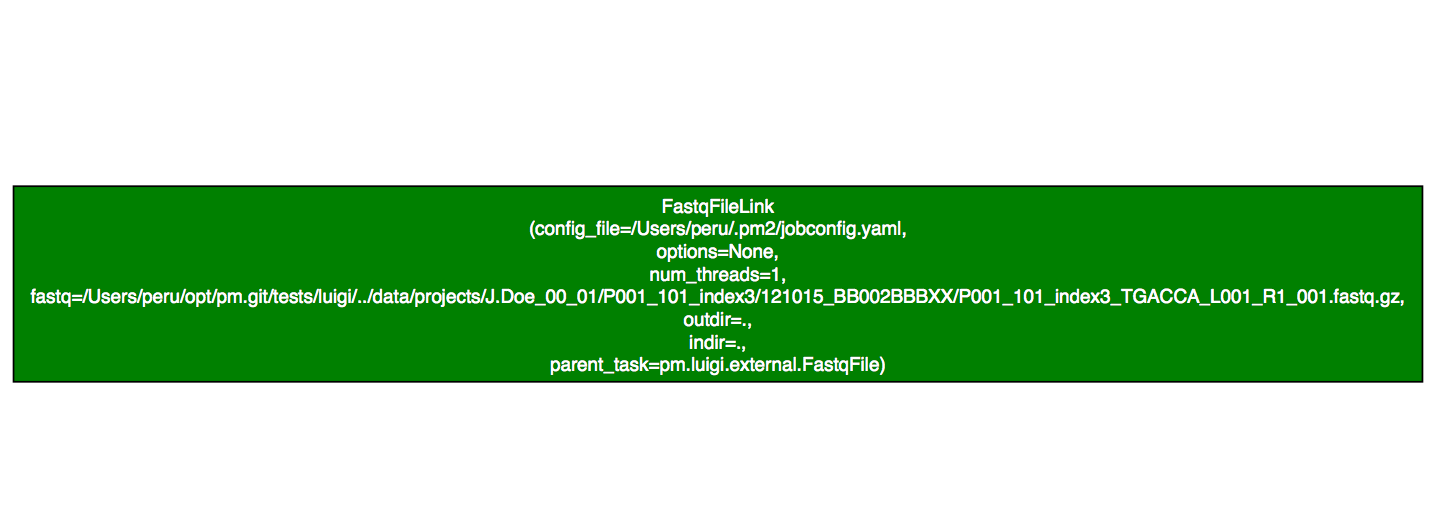
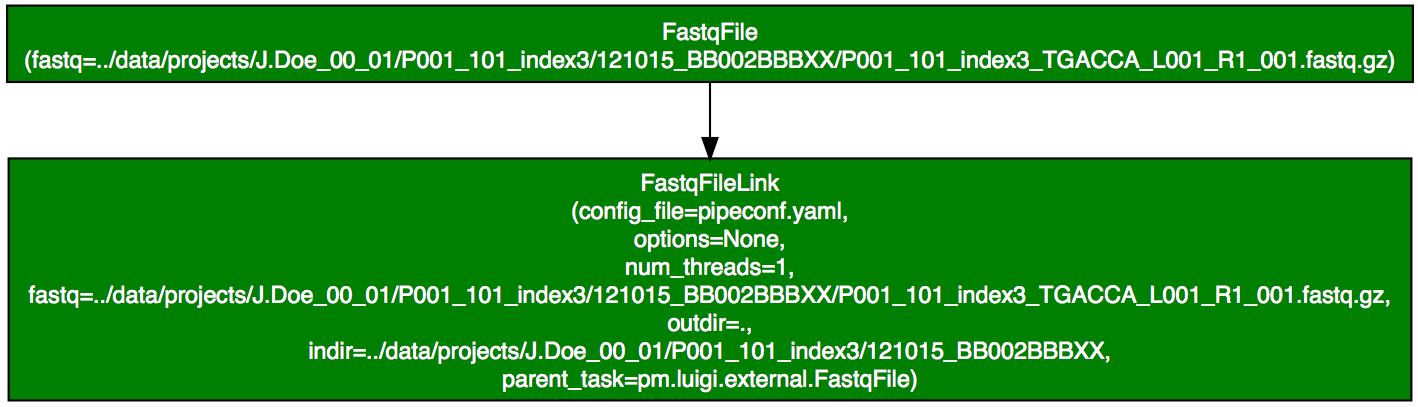
Update tests and config to use relative paths

diff --git a/tests/luigi/test_wrapper.py b/tests/luigi/test_wrapper.py
@@ -26,10 +26,10 @@ bwa = "bwa"
 samtools = "samtools"
 
 if has_ngstestdata:
-    bwaref = os.path.join(ntd.__path__[0], os.pardir, "data", "genomes", "Hsapiens", "hg19", "bwa", "chr11.fa")
-    bwaseqref = os.path.join(ntd.__path__[0], os.pardir, "data", "genomes", "Hsapiens", "hg19", "seq", "chr11.fa")
-    indir = os.path.join(os.path.dirname(__file__), os.pardir, "data", "projects", "J.Doe_00_01", "P001_101_index3", "121015_BB002BBBXX")
-    projectdir = os.path.join(os.path.dirname(__file__), os.pardir, "data", "projects", "J.Doe_00_01")
+    bwaref = os.path.relpath(os.path.join(ntd.__path__[0], os.pardir, "data", "genomes", "Hsapiens", "hg19", "bwa", "chr11.fa"))
+    bwaseqref = os.path.relpath(os.path.join(ntd.__path__[0], os.pardir, "data", "genomes", "Hsapiens", "hg19", "seq", "chr11.fa"))
+    indir = os.path.relpath(os.path.join(os.path.dirname(__file__), os.pardir, "data", "projects", "J.Doe_00_01", "P001_101_index3", "121015_BB002BBBXX"))
+    projectdir = os.path.relpath(os.path.join(os.path.dirname(__file__), os.pardir, "data", "projects", "J.Doe_00_01"))
     sample = "P001_101_index3_TGACCA_L001"
     fastq1 = os.path.join(indir, sample + "_R1_001.fastq.gz")
     fastq2 = os.path.join(indir, sample + "_R2_001.fastq.gz")
@@ -66,7 +66,6 @@ class TestLuigiWrappers(unittest.TestCase):
         except:
             pass
 
-    # NB: fastq1 has to be absolute path, otherwise no link is created
     def test_fastqln(self):
         luigi.run(_luigi_args(['--fastq', fastq1, '--config-file', localconf]), main_task_cls=FASTQ.FastqFileLink)
 

diff --git a/pm/luigi/fastq.py b/pm/luigi/fastq.py
@@ -22,13 +22,14 @@ class FastqFileLink(JobTask):
 
     def requires(self):
         cls = self.set_parent_task()
-        return cls(fastq=os.path.abspath(self.fastq))
+        return cls(fastq=os.path.relpath(self.fastq))
 
     def output(self):
-        return luigi.LocalTarget(os.path.join(os.path.abspath(self.outdir), os.path.basename(self.fastq)))
+        return luigi.LocalTarget(os.path.join(os.path.relpath(self.outdir), os.path.basename(self.fastq)))
 
     def run(self):
-        if not os.path.exists(self.outdir):
-            os.makedirs(self.outdir)
+        # TODO: need to separate handling of paths
+        if not os.path.exists(os.path.relpath(self.outdir)):
+            os.makedirs(os.path.relpath(self.outdir))
         os.symlink(self.input().fn, self.output().fn)
         

diff --git a/pm/luigi/server.py b/pm/luigi/server.py
@@ -33,7 +33,7 @@ from luigi.scheduler import PENDING, DONE, FAILED, RUNNING
 
 class RPCHandler(tornado.web.RequestHandler):
     """ Handle remote scheduling calls using rpc.RemoteSchedulerResponder"""
-    scheduler = scheduler.CentralPlannerScheduler()
+    scheduler = scheduler.CentralPlannerScheduler(remove_delay=30.0)
     api = RemoteSchedulerResponder(scheduler)
 
     def get(self, method):

diff --git a/pm/luigi/README.md b/pm/luigi/README.md
@@ -144,3 +144,5 @@ expect many changes in near future.
      [shell.exec_cmd](https://github.com/cement/cement/blob/master/cement/utils/shell.py#L8)
      from the cement package
 
+* Fix path handling so relative paths can be used (see e.g. run method in
+  [fastq](https://github.com/percyfal/pm/blob/feature/luigi-tasks/pm/luigi/fastq.py))
